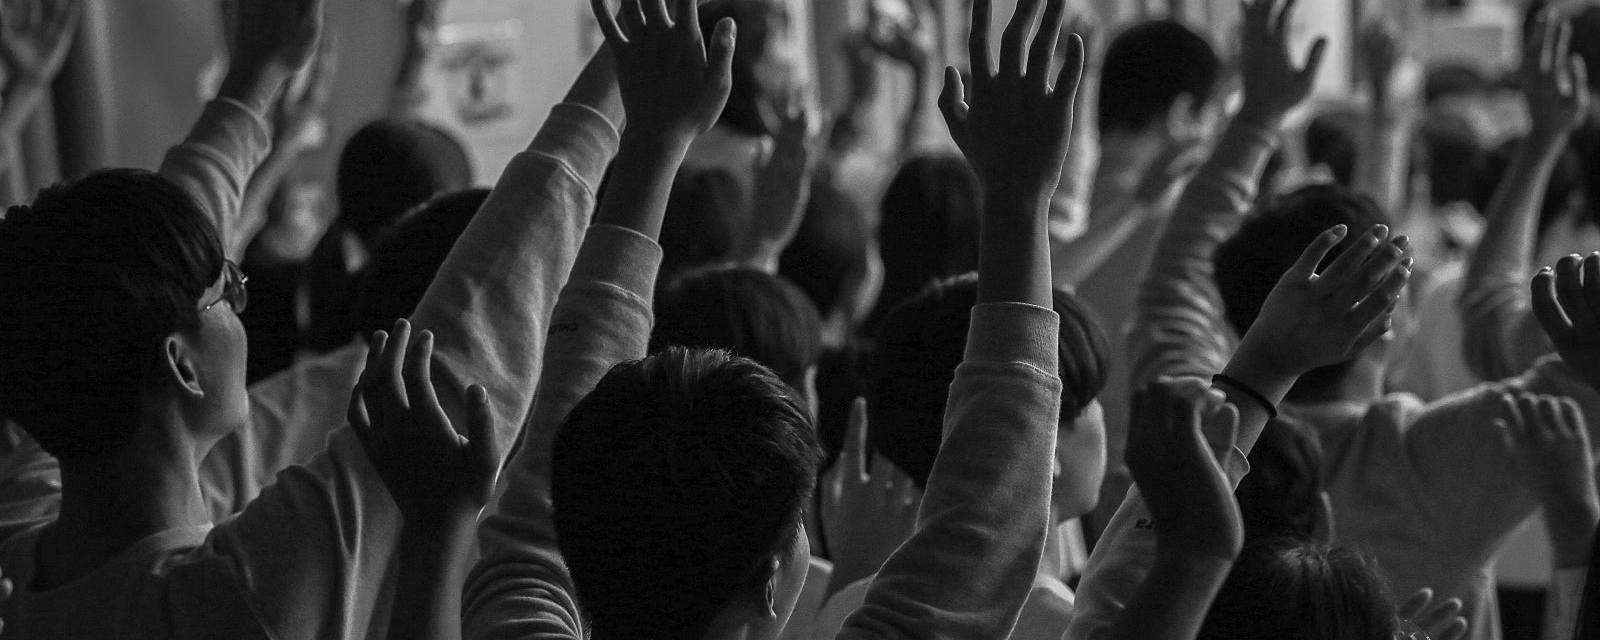
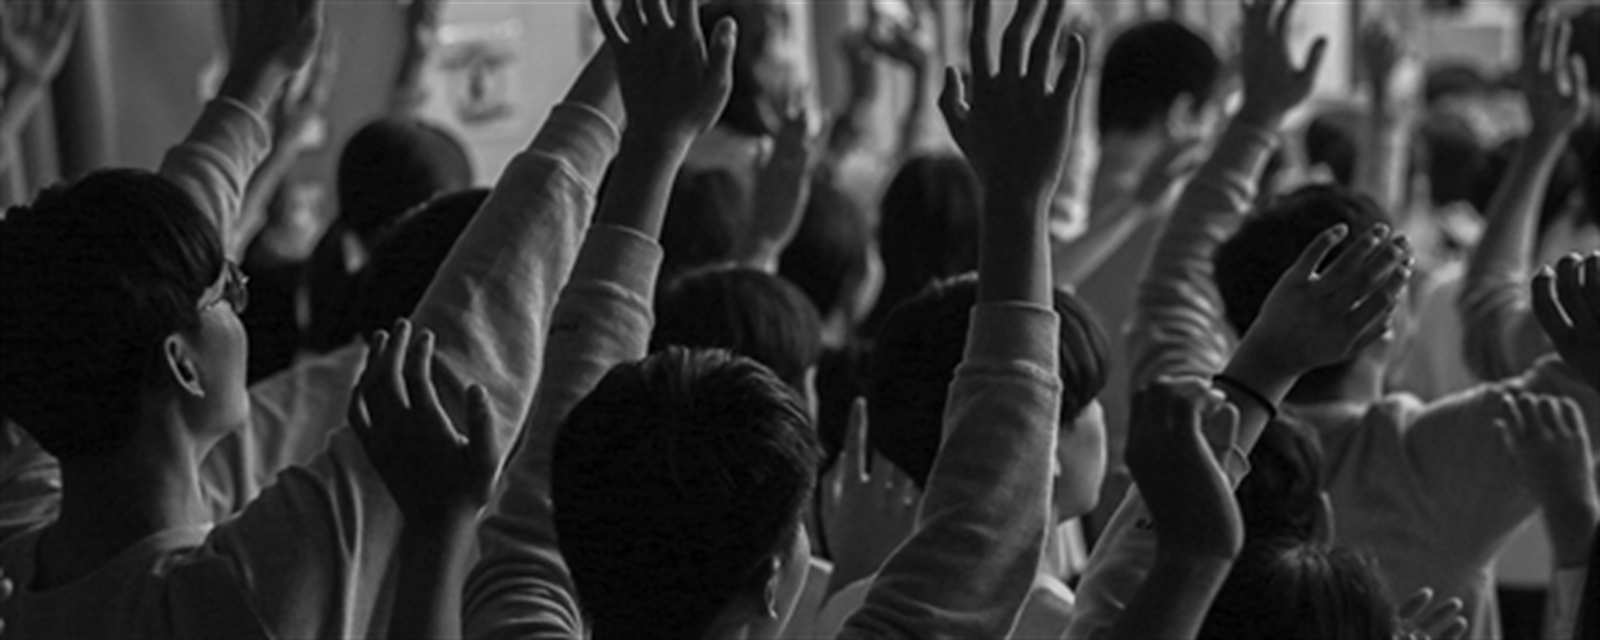
로딩 속도 개선
- 헤더·푸터를 문서 로딩 완료를 기다리지 않고 즉시 표시 (로고 7.3초 → 3.0초)
- 폰트 CSS를 @import 대신 <link> + preconnect로 병렬 로드
- 첫 화면·페이지 상단 사진 preload, 휴대폰용 작은 사진(16~40KB) 추가
- 하단 배경 사진은 화면 근처에서 로드, CSS 흐림 제거(파일에 미리 적용)
- 로고를 투명 PNG(9KB)로, 파비콘을 180px(5KB)로 교체

diff --git a/assets/css/style.css b/assets/css/style.css
@@ -1,7 +1,7 @@
 /* ===== AKC · Arise Korea Camp ===== */
 
-/* 프리텐다드 (Pretendard Variable, 동적 서브셋 - 필요한 글자만 내려받아 빠릅니다) */
-@import url("https://cdn.jsdelivr.net/gh/orioncactus/pretendard@v1.3.9/dist/web/variable/pretendardvariable-dynamic-subset.min.css");
+/* 프리텐다드 폰트는 각 HTML <head>에서 <link>로 불러옵니다
+   (CSS 안의 @import는 이 파일을 다 받은 뒤에야 시작되어 느립니다) */
 
 :root{
   --black:#000000;
@@ -42,14 +42,9 @@ p{margin:0}
 .hdr .wrap>.hdr-cta{justify-self:end}
 .logo{display:flex;align-items:center;gap:10px;font-weight:900;font-size:21px;letter-spacing:.04em}
 .logo b{color:var(--mint)}
-/* 로고 이미지 - 원본이 정사각형(1250x1250)이고 글자는 241,503 위치에 743x265 크기라
-   그 부분만 잘라서 보여줍니다. 검정 배경은 screen 합성으로 자연스럽게 사라집니다. */
-.logo-mark{--lh:26px;position:relative;overflow:hidden;flex:none;
-  height:var(--lh);width:calc(var(--lh) * 743 / 265)}
-.logo-mark img{position:absolute;max-width:none;mix-blend-mode:screen;
-  height:calc(var(--lh) * 1250 / 265);
-  left:calc(var(--lh) * -241 / 265);
-  top:calc(var(--lh) * -503 / 265)}
+/* 로고 이미지 - 글자 부분만 잘라 만든 투명 배경 PNG (assets/img/logo-mark.png, 3배 해상도) */
+.logo-mark{--lh:26px;display:block;flex:none;height:var(--lh)}
+.logo-mark img{display:block;height:100%;width:auto}
 .ftr .logo-mark{--lh:24px}
 .logo small{display:block;text-align:center;font-size:9px;font-weight:600;letter-spacing:.18em;color:var(--muted-2);line-height:1}
 .logo .lt{display:flex;flex-direction:column;align-items:center;gap:5px}
@@ -400,8 +395,7 @@ section[id],.card[id]{scroll-margin-top:calc(var(--nav-h) + 24px)}
 .hero.photo::before,.phead.photo::before,.band.photo::before{content:"";position:absolute;inset:0;z-index:-2;
   background-position:center;background-size:cover;background-repeat:no-repeat}
 .hero.photo::after,.phead.photo::after,.band.photo::after{content:"";position:absolute;inset:0;z-index:-1}
-/* 상단 · 하단 배경은 살짝 흐리게 (옷 글씨 등이 읽히지 않도록) */
-.phead.photo::before,.band.photo::before{inset:-14px;filter:blur(2.5px)}
+/* 상단 · 하단 배경의 흐림은 사진 파일에 미리 적용했습니다 (CSS 흐림 효과는 화면 그리기가 느려짐) */
 .hero.photo::before{background-image:url("../img/site/hero.jpg");background-position:center 30%}
 .hero.photo::after{background:
   radial-gradient(1000px 620px at 78% 8%,rgba(51,235,181,.16),transparent 62%),
@@ -411,7 +405,9 @@ section[id],.card[id]{scroll-margin-top:calc(var(--nav-h) + 24px)}
 .phead.photo::after{background:
   radial-gradient(760px 380px at 82% 0%,rgba(51,235,181,.14),transparent 62%),
   linear-gradient(90deg,rgba(0,0,0,.95) 0%,rgba(0,0,0,.85) 50%,rgba(0,0,0,.62) 100%)}
-.band.photo::before{background-image:url("../img/site/band-together.jpg");background-position:center 55%}
+/* 하단 사진은 화면 가까이 왔을 때 받습니다 (site.js가 bg-in 클래스를 붙임) */
+.band.photo::before{background-position:center 55%}
+.band.photo.bg-in::before{background-image:url("../img/site/band-together.jpg")}
 .band.photo::after{background:
   linear-gradient(120deg,rgba(51,235,181,.14),rgba(255,255,85,.08)),
   linear-gradient(rgba(0,0,0,.8),rgba(0,0,0,.8))}
@@ -433,6 +429,15 @@ section[id],.card[id]{scroll-margin-top:calc(var(--nav-h) + 24px)}
     linear-gradient(0deg,#000 0%,rgba(0,0,0,0) 28%),
     linear-gradient(rgba(0,0,0,.84),rgba(0,0,0,.84))}
   .phead.photo::after{background:linear-gradient(rgba(0,0,0,.86),rgba(0,0,0,.86))}
+  /* 휴대폰에서는 작은 사진 */
+  .hero.photo::before{background-image:url("../img/site/hero-m.jpg");background-position:center}
+  .band.photo.bg-in::before{background-image:url("../img/site/band-together-m.jpg")}
+  .ph-about::before{background-image:url("../img/site/ph-about-m.jpg")}
+  .ph-program::before{background-image:url("../img/site/ph-program-m.jpg")}
+  .ph-spirit::before{background-image:url("../img/site/ph-spirit-m.jpg")}
+  .ph-union::before{background-image:url("../img/site/ph-union-m.jpg")}
+  .ph-youth::before{background-image:url("../img/site/ph-youth-m.jpg")}
+  .ph-young::before{background-image:url("../img/site/ph-young-m.jpg")}
   .card-photo{margin:-24px -24px 20px}
 }
 

diff --git a/assets/js/site.js b/assets/js/site.js
@@ -112,7 +112,7 @@
     '<header class="hdr" id="hdr"><div class="wrap">' +
       '<a class="logo" href="./">' +
         '<span class="lt">' +
-          '<span class="logo-mark"><img src="assets/img/logo.png" alt="AKC"></span>' +
+          '<span class="logo-mark"><img src="assets/img/logo-mark.png" alt="AKC" width="219" height="78"></span>' +
           '<small>ARISE KOREA CAMP</small>' +
         '</span>' +
       '</a>' +
@@ -128,7 +128,7 @@
       '<div class="ftr-top">' +
         '<div style="max-width:340px">' +
           '<div class="logo" style="margin-bottom:14px"><span class="lt">' +
-          '<span class="logo-mark"><img src="assets/img/logo.png" alt="AKC"></span>' +
+          '<span class="logo-mark"><img src="assets/img/logo-mark.png" alt="AKC" width="219" height="78"></span>' +
           '<small>ARISE KOREA CAMP</small></span></div>' +
           '<p>캠프보다 캠프 이후가 더 뜨거운 캠프.<br>전국의 지역교회와 공동체가 함께 주도하는 연합 캠프입니다.</p>' +
         '</div>' +
@@ -194,9 +194,26 @@
     } else {
       items.forEach(function (el) { el.classList.add('in'); });
     }
+
+    /* 하단 배경 사진은 화면 가까이 왔을 때 받기 */
+    var lazyBg = document.querySelectorAll('.band.photo');
+    if ('IntersectionObserver' in window) {
+      var bgio = new IntersectionObserver(function (es) {
+        es.forEach(function (e) {
+          if (e.isIntersecting) { e.target.classList.add('bg-in'); bgio.unobserve(e.target); }
+        });
+      }, { rootMargin: '600px 0px' });
+      lazyBg.forEach(function (el) { bgio.observe(el); });
+    } else {
+      lazyBg.forEach(function (el) { el.classList.add('bg-in'); });
+    }
   }
 
-  if (document.readyState === 'loading') {
+  /* 이 스크립트는 각 페이지 맨 아래에 있어 헤더·푸터 자리가 이미 있습니다.
+     문서 로딩 완료를 기다리지 않고 바로 그려서 로고 · 메뉴가 늦게 뜨지 않게 합니다. */
+  if (document.getElementById('site-header') || document.readyState !== 'loading') {
+    mount();
+  } else {
     document.addEventListener('DOMContentLoaded', mount);
-  } else { mount(); }
+  }
 })();

diff --git a/index.html b/index.html
@@ -19,8 +19,13 @@
 <meta name="twitter:title" content="AKC · Arise Korea Camp | 캠프보다 캠프 이후가 더 뜨거운 캠프">
 <meta name="twitter:description" content="AKC(Arise Korea Camp)는 킹덤 프로듀서 · 킹덤 빌더 · 킹덤 어라이저, 세 가지 방향성으로 만들어진 전국 지역교회 연합 캠프입니다. 2027년 겨울 연합 청소년·청년 캠프 신청 안내.">
 <meta name="twitter:image" content="https://intoedu.github.io/AKC/assets/img/og.png">
-<link rel="icon" href="assets/img/logo.png">
+<link rel="icon" href="assets/img/favicon.png">
+<link rel="preconnect" href="https://cdn.jsdelivr.net">
+<link rel="preconnect" href="https://cdn.jsdelivr.net" crossorigin>
+<link rel="stylesheet" href="https://cdn.jsdelivr.net/gh/orioncactus/pretendard@v1.3.9/dist/web/variable/pretendardvariable-dynamic-subset.min.css">
 <link rel="stylesheet" href="assets/css/style.css">
+<link rel="preload" as="image" href="assets/img/site/hero.jpg" media="(min-width: 641px)" fetchpriority="high">
+<link rel="preload" as="image" href="assets/img/site/hero-m.jpg" media="(max-width: 640px)" fetchpriority="high">
 </head>
 <body>
 <div id="site-header"></div>

diff --git a/about.html b/about.html
@@ -19,8 +19,13 @@
 <meta name="twitter:title" content="AKC 소개 | AKC · Arise Korea Camp">
 <meta name="twitter:description" content="AKC(Arise Korea Camp) 소개와 인사말. 킹덤 프로듀서 · 킹덤 빌더 · 킹덤 어라이저의 방향성으로 세워진 전국 지역교회 연합 캠프입니다.">
 <meta name="twitter:image" content="https://intoedu.github.io/AKC/assets/img/og.png">
-<link rel="icon" href="assets/img/logo.png">
+<link rel="icon" href="assets/img/favicon.png">
+<link rel="preconnect" href="https://cdn.jsdelivr.net">
+<link rel="preconnect" href="https://cdn.jsdelivr.net" crossorigin>
+<link rel="stylesheet" href="https://cdn.jsdelivr.net/gh/orioncactus/pretendard@v1.3.9/dist/web/variable/pretendardvariable-dynamic-subset.min.css">
 <link rel="stylesheet" href="assets/css/style.css">
+<link rel="preload" as="image" href="assets/img/site/ph-about.jpg" media="(min-width: 641px)" fetchpriority="high">
+<link rel="preload" as="image" href="assets/img/site/ph-about-m.jpg" media="(max-width: 640px)" fetchpriority="high">
 </head>
 <body>
 <div id="site-header"></div>

diff --git a/camp-spirit-union.html b/camp-spirit-union.html
@@ -19,8 +19,13 @@
 <meta name="twitter:title" content="연합 캠프 | AKC · Arise Korea Camp">
 <meta name="twitter:description" content="2027년 겨울 AKC 연합 청소년·청년 캠프. 5차 1/13~15, 6차 1/17~19, 7차 1/20~22, 태안수양관(충남 태안군 소원면 소근로 630-15).">
 <meta name="twitter:image" content="https://intoedu.github.io/AKC/assets/img/og.png">
-<link rel="icon" href="assets/img/logo.png">
+<link rel="icon" href="assets/img/favicon.png">
+<link rel="preconnect" href="https://cdn.jsdelivr.net">
+<link rel="preconnect" href="https://cdn.jsdelivr.net" crossorigin>
+<link rel="stylesheet" href="https://cdn.jsdelivr.net/gh/orioncactus/pretendard@v1.3.9/dist/web/variable/pretendardvariable-dynamic-subset.min.css">
 <link rel="stylesheet" href="assets/css/style.css">
+<link rel="preload" as="image" href="assets/img/site/ph-union.jpg" media="(min-width: 641px)" fetchpriority="high">
+<link rel="preload" as="image" href="assets/img/site/ph-union-m.jpg" media="(max-width: 640px)" fetchpriority="high">
 </head>
 <body>
 <div id="site-header"></div>

diff --git a/camp-spirit-young.html b/camp-spirit-young.html
@@ -19,8 +19,13 @@
 <meta name="twitter:title" content="청년 캠프 | AKC · Arise Korea Camp">
 <meta name="twitter:description" content="AKC 청년 캠프 - 대학생·직장 청년을 위한 영성 캠프. 진로와 일터에서 킹덤 빌더로 살아가는 길을 함께 찾습니다.">
 <meta name="twitter:image" content="https://intoedu.github.io/AKC/assets/img/og.png">
-<link rel="icon" href="assets/img/logo.png">
+<link rel="icon" href="assets/img/favicon.png">
+<link rel="preconnect" href="https://cdn.jsdelivr.net">
+<link rel="preconnect" href="https://cdn.jsdelivr.net" crossorigin>
+<link rel="stylesheet" href="https://cdn.jsdelivr.net/gh/orioncactus/pretendard@v1.3.9/dist/web/variable/pretendardvariable-dynamic-subset.min.css">
 <link rel="stylesheet" href="assets/css/style.css">
+<link rel="preload" as="image" href="assets/img/site/ph-young.jpg" media="(min-width: 641px)" fetchpriority="high">
+<link rel="preload" as="image" href="assets/img/site/ph-young-m.jpg" media="(max-width: 640px)" fetchpriority="high">
 </head>
 <body>
 <div id="site-header"></div>

diff --git a/camp-spirit.html b/camp-spirit.html
@@ -19,8 +19,13 @@
 <meta name="twitter:title" content="영성 캠프 | AKC · Arise Korea Camp">
 <meta name="twitter:description" content="AKC 영성 캠프 - 연합 캠프, 청소년 캠프, 청년 캠프. 예배와 말씀, 기도로 다음 세대를 세우는 연합 캠프입니다.">
 <meta name="twitter:image" content="https://intoedu.github.io/AKC/assets/img/og.png">
-<link rel="icon" href="assets/img/logo.png">
+<link rel="icon" href="assets/img/favicon.png">
+<link rel="preconnect" href="https://cdn.jsdelivr.net">
+<link rel="preconnect" href="https://cdn.jsdelivr.net" crossorigin>
+<link rel="stylesheet" href="https://cdn.jsdelivr.net/gh/orioncactus/pretendard@v1.3.9/dist/web/variable/pretendardvariable-dynamic-subset.min.css">
 <link rel="stylesheet" href="assets/css/style.css">
+<link rel="preload" as="image" href="assets/img/site/ph-spirit.jpg" media="(min-width: 641px)" fetchpriority="high">
+<link rel="preload" as="image" href="assets/img/site/ph-spirit-m.jpg" media="(max-width: 640px)" fetchpriority="high">
 </head>
 <body>
 <div id="site-header"></div>

diff --git a/camp-spirit-youth.html b/camp-spirit-youth.html
@@ -19,8 +19,13 @@
 <meta name="twitter:title" content="청소년 캠프 | AKC · Arise Korea Camp">
 <meta name="twitter:description" content="AKC 청소년 캠프 - 중·고등학생을 위한 영성 캠프. 학업과 진로의 압박 속에서 신앙의 기초를 다시 세웁니다.">
 <meta name="twitter:image" content="https://intoedu.github.io/AKC/assets/img/og.png">
-<link rel="icon" href="assets/img/logo.png">
+<link rel="icon" href="assets/img/favicon.png">
+<link rel="preconnect" href="https://cdn.jsdelivr.net">
+<link rel="preconnect" href="https://cdn.jsdelivr.net" crossorigin>
+<link rel="stylesheet" href="https://cdn.jsdelivr.net/gh/orioncactus/pretendard@v1.3.9/dist/web/variable/pretendardvariable-dynamic-subset.min.css">
 <link rel="stylesheet" href="assets/css/style.css">
+<link rel="preload" as="image" href="assets/img/site/ph-youth.jpg" media="(min-width: 641px)" fetchpriority="high">
+<link rel="preload" as="image" href="assets/img/site/ph-youth-m.jpg" media="(max-width: 640px)" fetchpriority="high">
 </head>
 <body>
 <div id="site-header"></div>

diff --git a/about-program.html b/about-program.html
@@ -19,8 +19,13 @@
 <meta name="twitter:title" content="캠프 대표 프로그램 | AKC · Arise Korea Camp">
 <meta name="twitter:description" content="AKC 캠프의 3가지 시그니처 - 연합 예배, 부스형 프로그램, 스마트처치.">
 <meta name="twitter:image" content="https://intoedu.github.io/AKC/assets/img/og.png">
-<link rel="icon" href="assets/img/logo.png">
+<link rel="icon" href="assets/img/favicon.png">
+<link rel="preconnect" href="https://cdn.jsdelivr.net">
+<link rel="preconnect" href="https://cdn.jsdelivr.net" crossorigin>
+<link rel="stylesheet" href="https://cdn.jsdelivr.net/gh/orioncactus/pretendard@v1.3.9/dist/web/variable/pretendardvariable-dynamic-subset.min.css">
 <link rel="stylesheet" href="assets/css/style.css">
+<link rel="preload" as="image" href="assets/img/site/ph-program.jpg" media="(min-width: 641px)" fetchpriority="high">
+<link rel="preload" as="image" href="assets/img/site/ph-program-m.jpg" media="(max-width: 640px)" fetchpriority="high">
 </head>
 <body>
 <div id="site-header"></div>

diff --git a/camp-field.html b/camp-field.html
@@ -19,7 +19,10 @@
 <meta name="twitter:title" content="영역 캠프 | AKC · Arise Korea Camp">
 <meta name="twitter:description" content="AKC 영역 캠프 - 수학 캠프와 과학 캠프. 각자의 학문 영역에서 하나님 나라를 세우는 킹덤 프로듀서를 기릅니다.">
 <meta name="twitter:image" content="https://intoedu.github.io/AKC/assets/img/og.png">
-<link rel="icon" href="assets/img/logo.png">
+<link rel="icon" href="assets/img/favicon.png">
+<link rel="preconnect" href="https://cdn.jsdelivr.net">
+<link rel="preconnect" href="https://cdn.jsdelivr.net" crossorigin>
+<link rel="stylesheet" href="https://cdn.jsdelivr.net/gh/orioncactus/pretendard@v1.3.9/dist/web/variable/pretendardvariable-dynamic-subset.min.css">
 <link rel="stylesheet" href="assets/css/style.css">
 </head>
 <body>

diff --git a/gallery.html b/gallery.html
@@ -19,7 +19,10 @@
 <meta name="twitter:title" content="갤러리 | AKC · Arise Korea Camp">
 <meta name="twitter:description" content="AKC 캠프 현장 사진 갤러리. 예배, 말씀, 부스 프로그램, 야외 활동, 기도, 조별 나눔, 레크레이션 등 캠프의 순간들.">
 <meta name="twitter:image" content="https://intoedu.github.io/AKC/assets/img/og.png">
-<link rel="icon" href="assets/img/logo.png">
+<link rel="icon" href="assets/img/favicon.png">
+<link rel="preconnect" href="https://cdn.jsdelivr.net">
+<link rel="preconnect" href="https://cdn.jsdelivr.net" crossorigin>
+<link rel="stylesheet" href="https://cdn.jsdelivr.net/gh/orioncactus/pretendard@v1.3.9/dist/web/variable/pretendardvariable-dynamic-subset.min.css">
 <link rel="stylesheet" href="assets/css/style.css">
 </head>
 <body>

diff --git a/camp-field-math.html b/camp-field-math.html
@@ -19,7 +19,10 @@
 <meta name="twitter:title" content="수학 캠프 | AKC · Arise Korea Camp">
 <meta name="twitter:description" content="AKC 영역 캠프 - 수학 캠프. 수와 질서 속에서 창조의 규칙을 발견하고, 수학을 소명의 언어로 다시 배웁니다.">
 <meta name="twitter:image" content="https://intoedu.github.io/AKC/assets/img/og.png">
-<link rel="icon" href="assets/img/logo.png">
+<link rel="icon" href="assets/img/favicon.png">
+<link rel="preconnect" href="https://cdn.jsdelivr.net">
+<link rel="preconnect" href="https://cdn.jsdelivr.net" crossorigin>
+<link rel="stylesheet" href="https://cdn.jsdelivr.net/gh/orioncactus/pretendard@v1.3.9/dist/web/variable/pretendardvariable-dynamic-subset.min.css">
 <link rel="stylesheet" href="assets/css/style.css">
 </head>
 <body>
